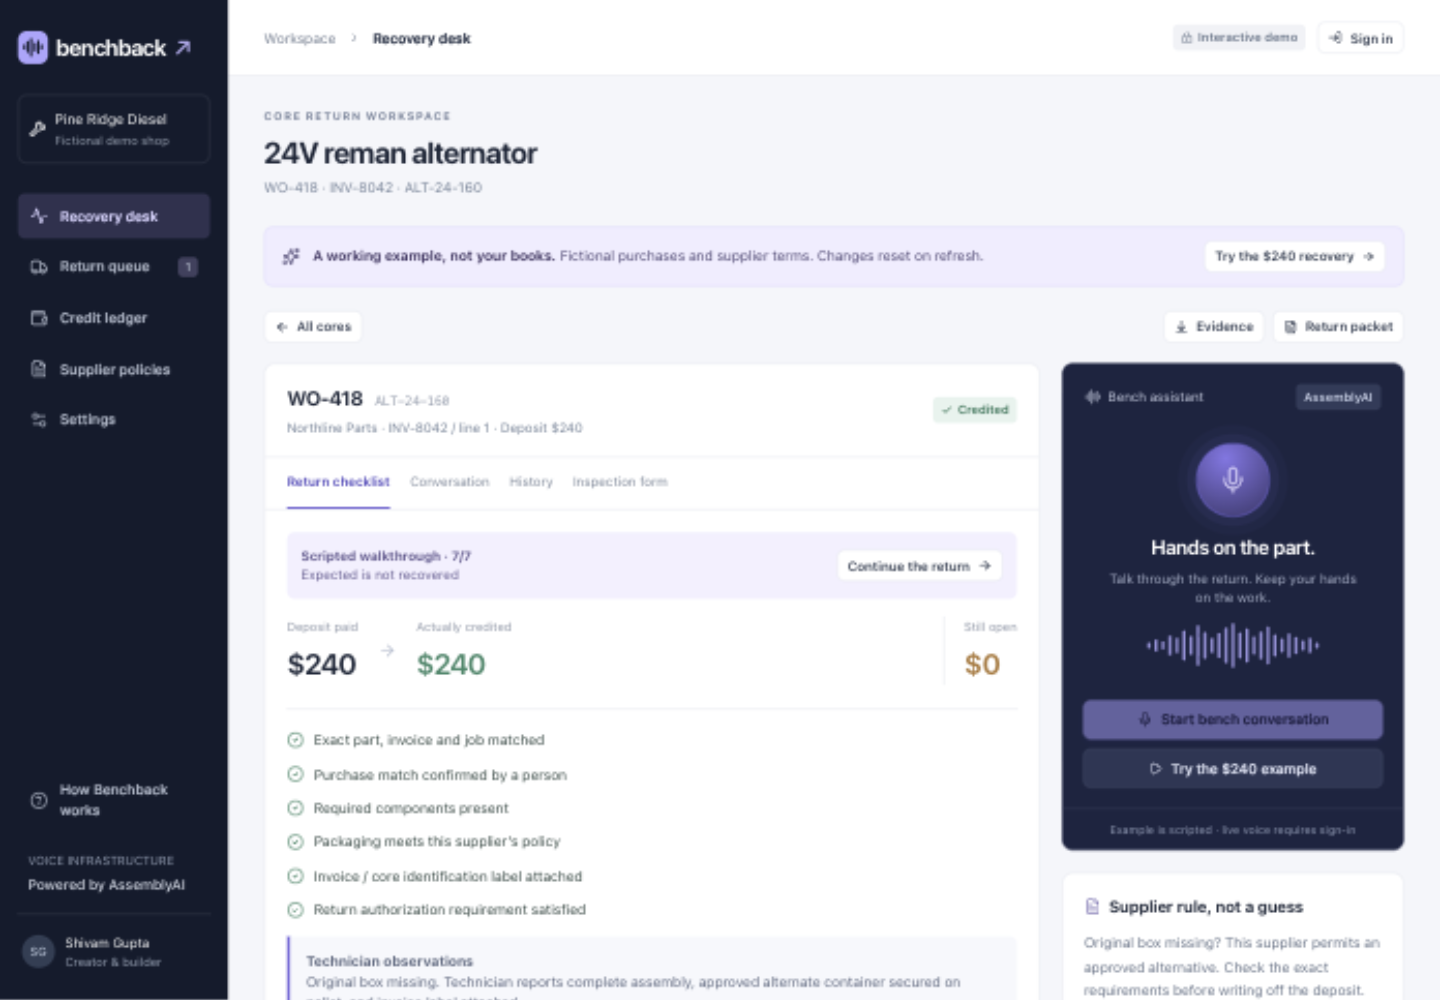
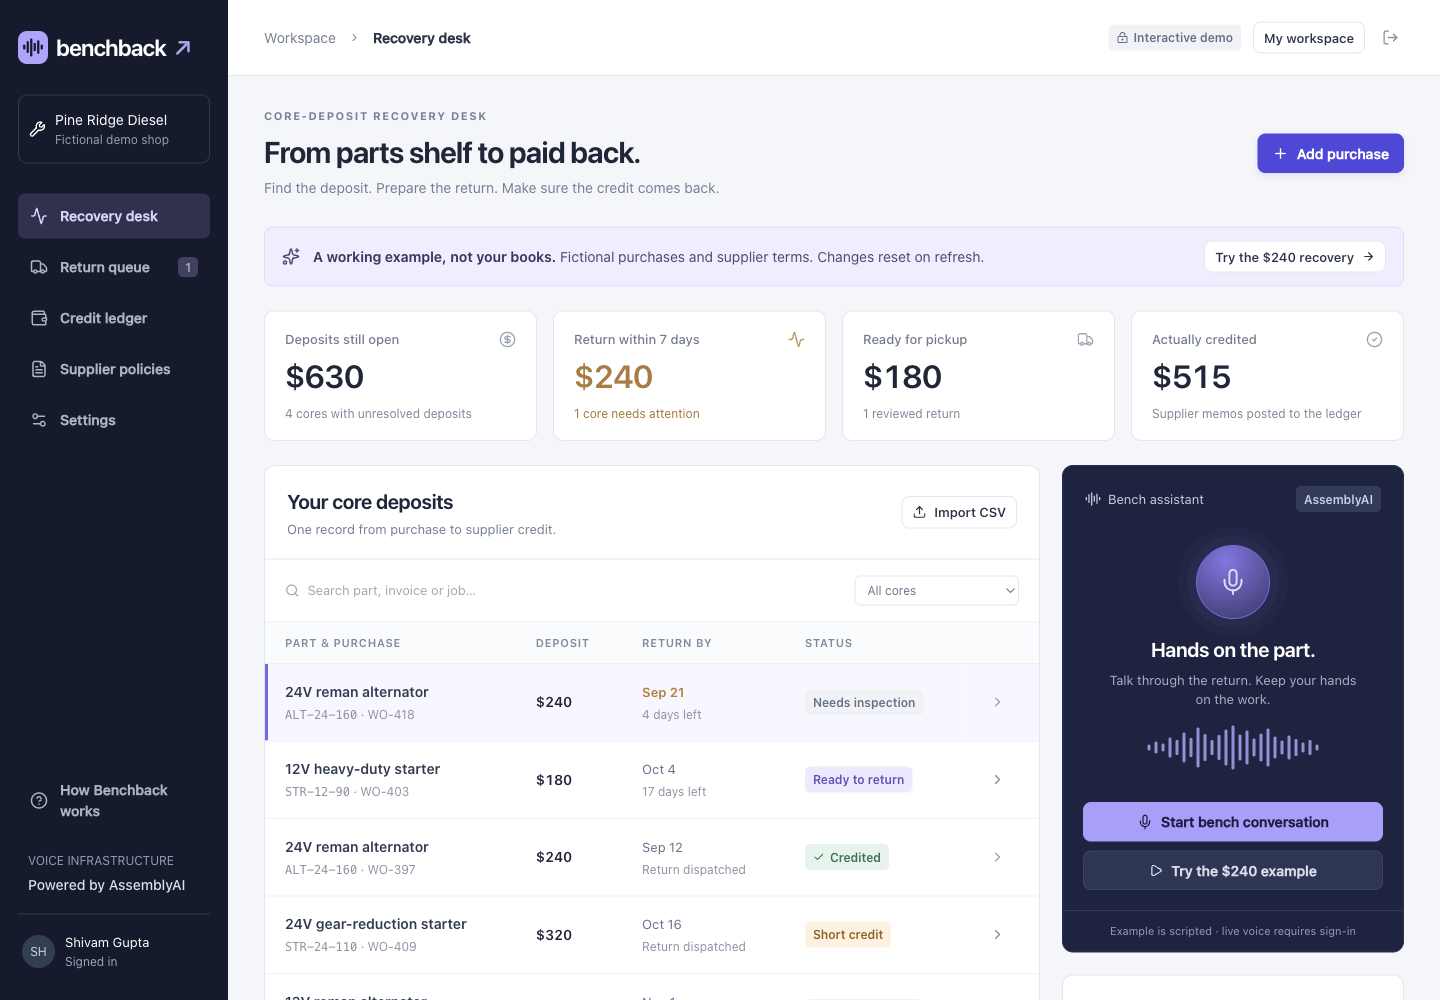
Document verified deployment and package final submission materials

diff --git a/submission/README.md b/submission/README.md
@@ -14,3 +14,14 @@ This packet is specific to parts-core deposit recovery for independent diesel re
 Verify shipped features and fill the final application, repository, video, and deck fields before publishing. Nothing in this folder is itself a filed hackathon submission.
 
 **Review status:** the 31/40 score is an internal, provisional code/concept assessment. Live deployed voice had not yet been independently tested at this revision. The launch checklist records the verification still needed; its unchecked entries do not imply completed tests. The positioning is intentionally narrow, with no established-moat claim and a pilot that measures import effort and compares voice with a good short form.
+
+## Delivery links
+
+- App: https://benchback-shivam.sg127977958.chatgpt.site (currently owner-private; sharing approval pending)
+- Public MIT repository: https://github.com/shi1720/AssemblyAI
+- Slides: `benchback-pitch.pptx` and `benchback-pitch.pdf`
+- Cover: `benchback-cover.png`
+- Fictional sample return: `sample-return-packet.pdf`
+- Recording inputs: `demo/01-partial-credit.csv` and `demo/02-followup-credit.csv`
+
+58 automated tests and GitHub Actions passed. Live AssemblyAI voice still needs a configured account key and a recorded acceptance run. The video has not been recorded or submitted.

diff --git a/submission/01-submission-copy.md b/submission/01-submission-copy.md
@@ -64,13 +64,13 @@ AssemblyAI handles the real-time spoken interaction. The application supplies ca
 | Field | Final action |
 |---|---|
 | Creator | Shivam Gupta |
-| Repository | Use the verified public Benchback repository URL; starting repository is https://github.com/shi1720/AssemblyAI |
-| Live application | Insert the tested deployment URL |
-| Judge access | Supply the verified scoped demo-access instructions |
+| Repository | https://github.com/shi1720/AssemblyAI (public, MIT) |
+| Live application | https://benchback-shivam.sg127977958.chatgpt.site (owner-private pending sharing approval) |
+| Judge access | Once sharing is enabled: open the example without using real records; sign in for private saved records. Live voice requires configured AssemblyAI key. |
 | Video | Insert the final recorded presentation URL |
-| Slides | Attach the final slide presentation |
-| Cover | Attach the final exported image |
-| License | Verify MIT license and third-party asset/dependency compatibility |
+| Slides | benchback-pitch.pptx or benchback-pitch.pdf |
+| Cover | benchback-cover.png |
+| License | MIT LICENSE and upstream build/style licenses included |
 
 ## Final claim check
 

diff --git a/docs/qa-report.md b/docs/qa-report.md
@@ -15,6 +15,9 @@ Date: September 17, 2026. Local macOS environment; synthetic fixtures only.
 - Generated two-page sample return PDF rendered and visually inspected; removed an orphaned paragraph at the page break.
 - Independent adversarial review found receipt-deadline, memo-deduplication, purchase-line, correction and deduction issues. They were fixed and covered by tests.
 
+- GitHub Actions passed clean install, all 58 tests, TypeScript, ESLint and production build on Linux.
+- Hosted deployment succeeded at https://benchback-shivam.sg127977958.chatgpt.site. The owner session loaded the private workspace, seeded practice records and retained them after reload. Desktop and mobile screenshots in the submission folder come from this hosted build.
+
 ## Not yet verified
 
 - Real AssemblyAI token entitlement, microphone-to-provider conversation, actual transcription/voice latency, noisy-workshop accuracy, provider billing.

diff --git a/README.md b/README.md
@@ -4,9 +4,13 @@
 
 Created by **Shivam Gupta** for the AssemblyAI Voice Agent Hackathon, September 2026.
 
+[Open Benchback](https://benchback-shivam.sg127977958.chatgpt.site) · [Public repository](https://github.com/shi1720/AssemblyAI) · [CI results](https://github.com/shi1720/AssemblyAI/actions)
+
+The hosted site currently requires owner access. Live voice awaits a server-side AssemblyAI key; the example and nonvoice workflows are available.
+
 When a shop buys a remanufactured alternator or starter, it often pays a refundable deposit on the old part—the *core*. Getting that money credited requires the right purchase match, the supplier’s return conditions, a physical return, and a credit memo. Benchback connects those steps.
 
-![Benchback cover](submission/benchback-cover.png)
+![Benchback recovery desk](submission/app-desktop.png)
 
 ## The demonstration
 
